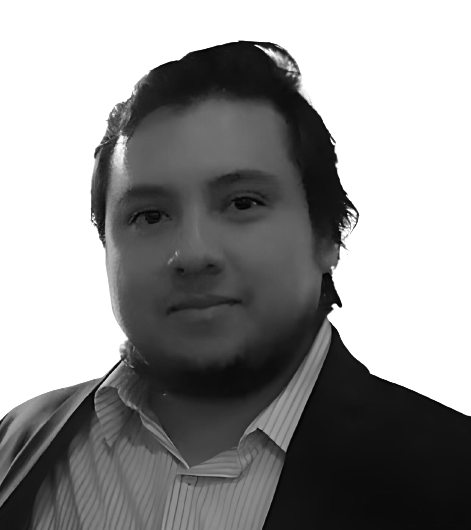
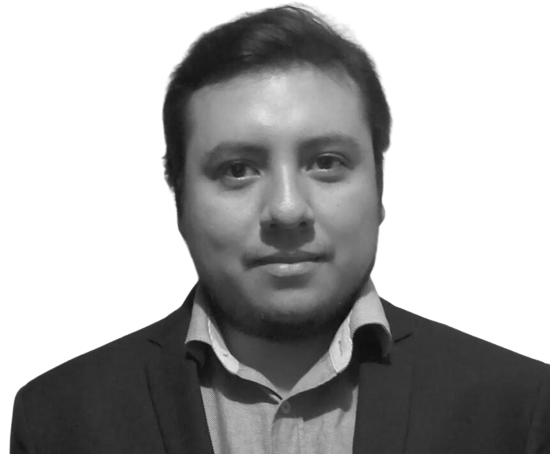
x

diff --git a/flutter_service_worker.js b/flutter_service_worker.js
@@ -6,8 +6,8 @@ const CACHE_NAME = 'flutter-app-cache';
 const RESOURCES = {"assets/AssetManifest.json": "81f8fe6b453b0fca40df0f7ab3d19aa4",
 "assets/AssetManifest.smcbin": "a81ea3f65185e53d271feb8e030c978b",
 "assets/assets/hi.gif": "cad5918d86b6a7e83f1fb4acead70e4c",
-"assets/assets/photos/black-white.png": "e230e6bfa3e1aa1b22a90b29d7b3ebcc",
-"assets/assets/photos/colored.png": "662721e08d0a6cb02d69b8b779717f4c",
+"assets/assets/photos/black-white.png": "a06c74bb17d873a0ce3a44ecf0166088",
+"assets/assets/photos/colored.png": "b5171177203c31e0893cc5e740bcecc8",
 "assets/assets/projects/android.png": "765adf924dae4d5e67bfb640bcd05c48",
 "assets/assets/projects/flutter.png": "0b5a2f8d3f4d173805affaf9f84f6c87",
 "assets/assets/services/app.png": "9d2da88edb7f550ef24874b306b4ae12",
@@ -66,8 +66,8 @@ const RESOURCES = {"assets/AssetManifest.json": "81f8fe6b453b0fca40df0f7ab3d19aa
 "flutter.js": "6b515e434cea20006b3ef1726d2c8894",
 "icons/Icon-192.png": "002516a4b23f153b7ac2928347c377b1",
 "icons/Icon-512.png": "84780d2dfe97536ad1b68213079cc78b",
-"index.html": "8f6578a1de8694251a5aa4428d30b191",
-"/": "8f6578a1de8694251a5aa4428d30b191",
+"index.html": "125d415f933d45525fe7ecb792624af8",
+"/": "125d415f933d45525fe7ecb792624af8",
 "main.dart.js": "3dc6eb4d43c2380bd3f83610f24b6ccd",
 "manifest.json": "ed8870dd41879ca0014f7a3f9d4a3d87",
 "version.json": "a29e8b22a08aa0274b027931eec216c4"};

diff --git a/index.html b/index.html
@@ -13,7 +13,7 @@
     Fore more details:
     * https://developer.mozilla.org/en-US/docs/Web/HTML/Element/base
   -->
-  <base href="/sergio.github.io/">
+  <base href="https://chejotg.github.io/sergio.github.io/">
   
   <meta charset="UTF-8">
   <meta content="IE=Edge" http-equiv="X-UA-Compatible">
@@ -103,7 +103,7 @@
   <script>
     if ('serviceWorker' in navigator) {
       window.addEventListener('flutter-first-frame', function () {
-        navigator.serviceWorker.register('flutter_service_worker.js?v=2853533399');
+        navigator.serviceWorker.register('flutter_service_worker.js?v=1171881329');
       });
     }
   </script>
